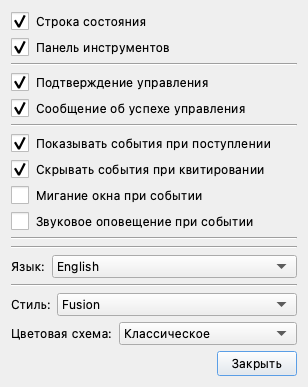
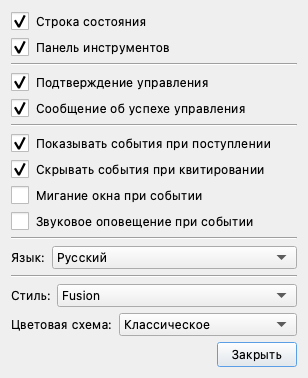
client: don't draw a Settings rule that introduces nothing (554)
`SettingsDialog::BuildSection` drew `TYPE_SEPARATOR` as an `HLine` where it
appeared, but the dialog does not render every item the menu does — a plain
command is deliberately skipped, "an action, not a preference". So a separator
could introduce a group that is entirely absent.

`ID_VIEW_PUBLIC_FOLDER` ("Open Displays Folder") is exactly that: registered at
`filesystem_component.cpp:103` with `.separator_before = true`, then skipped.
The rule it left behind stood in front of whatever came next — Modus'
`DISPLAY_SETTINGS` group in a full shell, and the Language separator in the
screenshot fixture, where the two rules landed adjacent.

The comment claiming no such command exists was false, and is corrected.

Fix in the dialog rather than in the menu registration: the separator is real
in the menu, which does draw the command. The rule is now deferred and emitted
only when a control actually follows, which also drops leading and trailing
rules and collapses consecutive separators — a rule is only ever drawn between
two things the operator can see. `pending_rule` is threaded through the
in-place-menu recursion so an empty contribution neither draws one nor consumes
the one the next real group needs.

Five regression tests; three fail against the pre-fix code (the skipped-command,
trailing and leading cases) and two guard against over-correcting.

The gallery capture is regenerated: 387→378px, one rule fewer, nothing else
[…]

diff --git a/main_window/settings_dialog_unittest.cpp b/main_window/settings_dialog_unittest.cpp
@@ -9,6 +9,7 @@
 
 #include <gtest/gtest.h>
 
+#include <algorithm>
 #include <map>
 #include <set>
 #include <vector>
@@ -19,6 +20,7 @@ constexpr int kToggleA = 1;
 constexpr int kToggleB = 2;
 constexpr int kThemeDark = 10;
 constexpr int kThemeLight = 11;
+constexpr int kCommand = 3;
 
 // Stands in for the command registry the real Settings menu is assembled from:
 // it records what a control activated and answers the checked/enabled queries.
@@ -58,6 +60,15 @@ class FakeDelegate : public scada::aui::SimpleMenuModel::Delegate {
   std::map<int, std::u16string> disabled_reasons_;
   std::vector<int> executed_;
 };
+
+// The section rules the dialog drew. `findChildren<QFrame*>` also reaches the
+// frames Qt puts inside other widgets, so the shape is what identifies a rule.
+int CountRules(const QDialog& dialog) {
+  const QList<QFrame*> frames = dialog.findChildren<QFrame*>();
+  return static_cast<int>(std::ranges::count_if(frames, [](QFrame* frame) {
+    return frame->frameShape() == QFrame::HLine;
+  }));
+}
 
 class SettingsDialogTest : public ::testing::Test {
  protected:
@@ -183,11 +194,77 @@ TEST_F(SettingsDialogTest, SeparatorsBecomeSectionRules) {
 
   SettingsDialog dialog{nullptr, model};
 
-  const QList<QFrame*> rules = dialog.findChildren<QFrame*>();
-  const auto is_rule = [](QFrame* frame) {
-    return frame->frameShape() == QFrame::HLine;
-  };
-  EXPECT_EQ(std::ranges::count_if(rules, is_rule), 1);
+  EXPECT_EQ(CountRules(dialog), 1);
+}
+
+// A module can contribute a plain command to the Settings menu, and the dialog
+// skips it — but the separator the menu asked for in front of it must not
+// survive its skipping. `ID_VIEW_PUBLIC_FOLDER` is registered exactly this way,
+// and the rule it left behind read as a heading for whatever module came next.
+TEST_F(SettingsDialogTest, SeparatorBeforeASkippedCommandIsNotDrawn) {
+  scada::aui::SimpleMenuModel model{&delegate_};
+  model.AddCheckItem(kToggleA, u"Toolbar");
+  model.AddSeparator(scada::aui::NORMAL_SEPARATOR);
+  model.AddItem(kCommand, u"Open Displays Folder");
+
+  SettingsDialog dialog{nullptr, model};
+
+  EXPECT_EQ(CountRules(dialog), 0);
+}
+
+// The group after a skipped command still has to be divided from the one
+// before it — suppressing the rule must not merge two groups into one.
+TEST_F(SettingsDialogTest, SeparatorSurvivesWhenAControlFollowsTheSkippedOne) {
+  scada::aui::SimpleMenuModel model{&delegate_};
+  model.AddCheckItem(kToggleA, u"Toolbar");
+  model.AddSeparator(scada::aui::NORMAL_SEPARATOR);
+  model.AddItem(kCommand, u"Open Displays Folder");
+  model.AddCheckItem(kToggleB, u"Speech");
+
+  SettingsDialog dialog{nullptr, model};
+
+  EXPECT_EQ(CountRules(dialog), 1);
+}
+
+// A rule with nothing after it divides nothing, which is the same defect at
+// the end of the list rather than the middle.
+TEST_F(SettingsDialogTest, TrailingSeparatorIsNotDrawn) {
+  scada::aui::SimpleMenuModel model{&delegate_};
+  model.AddCheckItem(kToggleA, u"Toolbar");
+  model.AddSeparator(scada::aui::NORMAL_SEPARATOR);
+
+  SettingsDialog dialog{nullptr, model};
+
+  EXPECT_EQ(CountRules(dialog), 0);
+}
+
+// And a rule with nothing before it divides nothing either. The Settings menu
+// opens with a separator whenever the first contributing module asks for one.
+TEST_F(SettingsDialogTest, LeadingSeparatorIsNotDrawn) {
+  scada::aui::SimpleMenuModel model{&delegate_};
+  model.AddSeparator(scada::aui::NORMAL_SEPARATOR);
+  model.AddCheckItem(kToggleA, u"Toolbar");
+
+  SettingsDialog dialog{nullptr, model};
+
+  EXPECT_EQ(CountRules(dialog), 0);
+}
+
+// An in-place menu contributes to the enclosing section, so a rule raised
+// before it belongs to its first control — and an empty one must not consume
+// the rule that the next real group needs.
+TEST_F(SettingsDialogTest, EmptyInplaceMenuDoesNotConsumeThePendingRule) {
+  scada::aui::SimpleMenuModel empty{&delegate_};
+
+  scada::aui::SimpleMenuModel model{&delegate_};
+  model.AddCheckItem(kToggleA, u"Toolbar");
+  model.AddSeparator(scada::aui::NORMAL_SEPARATOR);
+  model.AddInplaceMenu(&empty);
+  model.AddCheckItem(kToggleB, u"Speech");
+
+  SettingsDialog dialog{nullptr, model};
+
+  EXPECT_EQ(CountRules(dialog), 1);
 }
 
 // Speech is disabled when the platform has no voice. A greyed row with no

diff --git a/main_window/settings_dialog_qt.cpp b/main_window/settings_dialog_qt.cpp
@@ -48,7 +48,10 @@ SettingsDialog::SettingsDialog(QWidget* parent, scada::aui::MenuModel& model)
   // Dynamic models populate here; without it Language and the module
   // contributions would render empty.
   model.MenuWillShow();
-  BuildSection(model, layout);
+  bool pending_rule = false;
+  BuildSection(model, layout, pending_rule);
+  // Any rule still owed here introduced nothing and is dropped: the trailing
+  // case of the same rule FlushPendingRule applies between sections.
 
   layout->addStretch(1);
 
@@ -63,47 +66,69 @@ SettingsDialog::SettingsDialog(QWidget* parent, scada::aui::MenuModel& model)
 
 SettingsDialog::~SettingsDialog() = default;
 
+void SettingsDialog::FlushPendingRule(QVBoxLayout* layout, bool& pending_rule) {
+  if (!pending_rule)
+    return;
+  pending_rule = false;
+
+  // Nothing precedes it, so it would divide the first control from the title
+  // bar rather than from another group.
+  if (layout->count() == 0)
+    return;
+
+  auto* rule = new QFrame{this};
+  rule->setFrameShape(QFrame::HLine);
+  rule->setFrameShadow(QFrame::Sunken);
+  layout->addWidget(rule);
+}
+
 void SettingsDialog::BuildSection(scada::aui::MenuModel& model,
-                                  QVBoxLayout* layout) {
+                                  QVBoxLayout* layout,
+                                  bool& pending_rule) {
   for (int index = 0; index < model.GetItemCount(); ++index) {
     if (!IsRenderable(model, index))
       continue;
 
     switch (model.GetTypeAt(index)) {
-      case MenuModel::TYPE_SEPARATOR: {
+      case MenuModel::TYPE_SEPARATOR:
         // The menu's grouping is meaningful — it is what separates the window
         // toggles from the event ones — so it survives as a rule rather than
-        // being flattened away.
-        auto* rule = new QFrame{this};
-        rule->setFrameShape(QFrame::HLine);
-        rule->setFrameShadow(QFrame::Sunken);
-        layout->addWidget(rule);
+        // being flattened away. Recorded rather than drawn: see
+        // `FlushPendingRule`. Consecutive separators collapse into one, which
+        // is what the menu does with them too.
+        pending_rule = true;
         break;
-      }
 
       case MenuModel::TYPE_CHECK:
       case MenuModel::TYPE_RADIO:
+        FlushPendingRule(layout, pending_rule);
         AddCheckRow(model, index, layout);
         break;
 
       case MenuModel::TYPE_SUBMENU:
+        FlushPendingRule(layout, pending_rule);
         AddChoiceRow(model, index, layout);
         break;
 
       case MenuModel::TYPE_INPLACE_MENU:
         // Contributes its items to this section rather than a group of its
-        // own, which is what "in-place" means in the menu too.
+        // own, which is what "in-place" means in the menu too — including the
+        // pending rule, which its first control discharges and an empty one
+        // leaves for whatever follows.
         if (MenuModel* inplace = model.GetSubmenuModelAt(index)) {
           inplace->MenuWillShow();
-          BuildSection(*inplace, layout);
+          BuildSection(*inplace, layout, pending_rule);
         }
         break;
 
       case MenuModel::TYPE_COMMAND:
       case MenuModel::TYPE_BUTTON_ITEM:
         // A plain command in a preferences list is an action, not a
-        // preference. None exists today; rendering it as a checkbox would
-        // misreport it, so it is deliberately skipped rather than guessed at.
+        // preference; rendering it as a checkbox would misreport it, so it is
+        // deliberately skipped. `ID_VIEW_PUBLIC_FOLDER` ("Open Displays
+        // Folder") is one, and it is registered with `separator_before`, so
+        // skipping it must not leave that rule standing in front of the next
+        // module's group — which is why the rule waits for a control instead.
         break;
     }
   }

diff --git a/main_window/settings_dialog_qt.h b/main_window/settings_dialog_qt.h
@@ -37,7 +37,21 @@ class SettingsDialog : public QDialog {
   // Renders `model`'s items into `layout`. Recurses through in-place menus,
   // which contribute their items to the enclosing section rather than a group
   // of their own.
-  void BuildSection(scada::aui::MenuModel& model, QVBoxLayout* layout);
+  //
+  // `pending_rule` carries a separator the model asked for but that has not
+  // been drawn yet, and is shared across the recursion so an in-place menu can
+  // discharge one raised before it. See `FlushPendingRule`.
+  void BuildSection(scada::aui::MenuModel& model,
+                    QVBoxLayout* layout,
+                    bool& pending_rule);
+
+  // Draws a separator that is still owed, if one is and if it would actually
+  // divide something. Separators are deferred rather than drawn where they
+  // appear because the dialog does not render every item the menu does — a
+  // plain command is skipped — so a rule can turn out to introduce a group
+  // that is entirely absent. Delaying it until a control follows means a rule
+  // is only ever drawn between two things the operator can see.
+  void FlushPendingRule(QVBoxLayout* layout, bool& pending_rule);
 
   // Renders a submenu of mutually exclusive choices (Language, Style, Colour
   // scheme) as a labelled combo box. A submenu is the menu vocabulary for "pick
